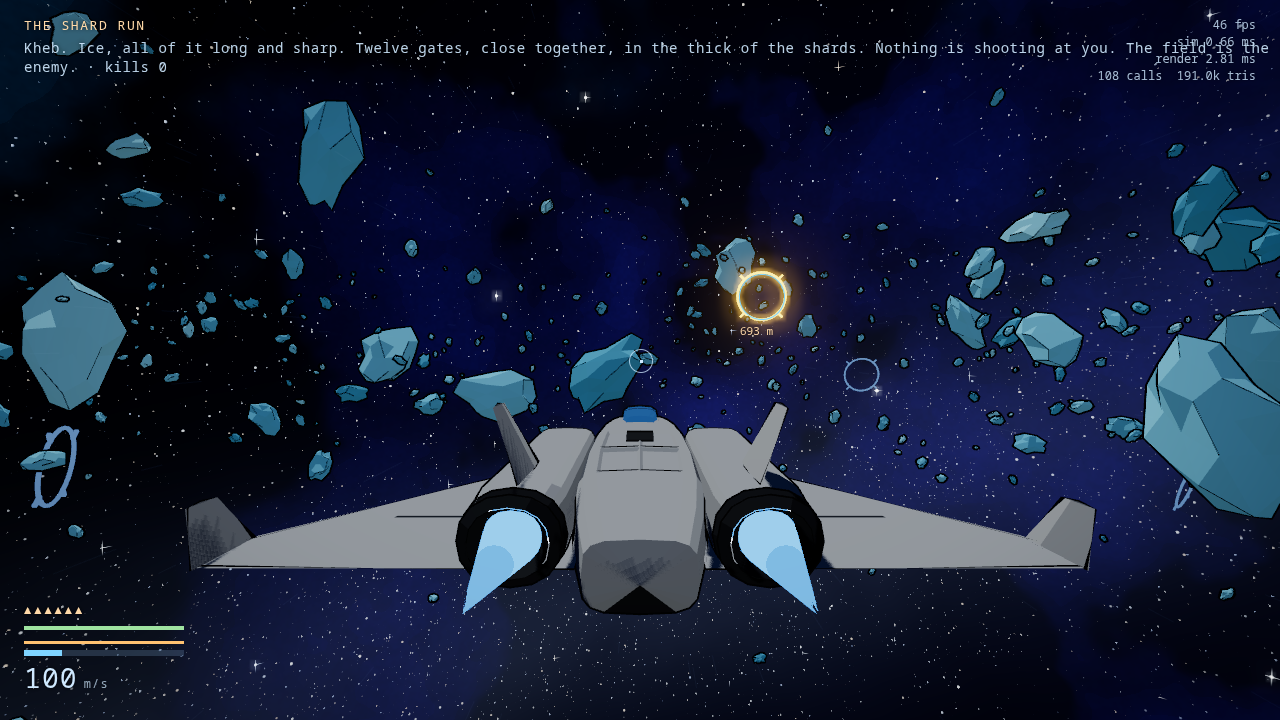
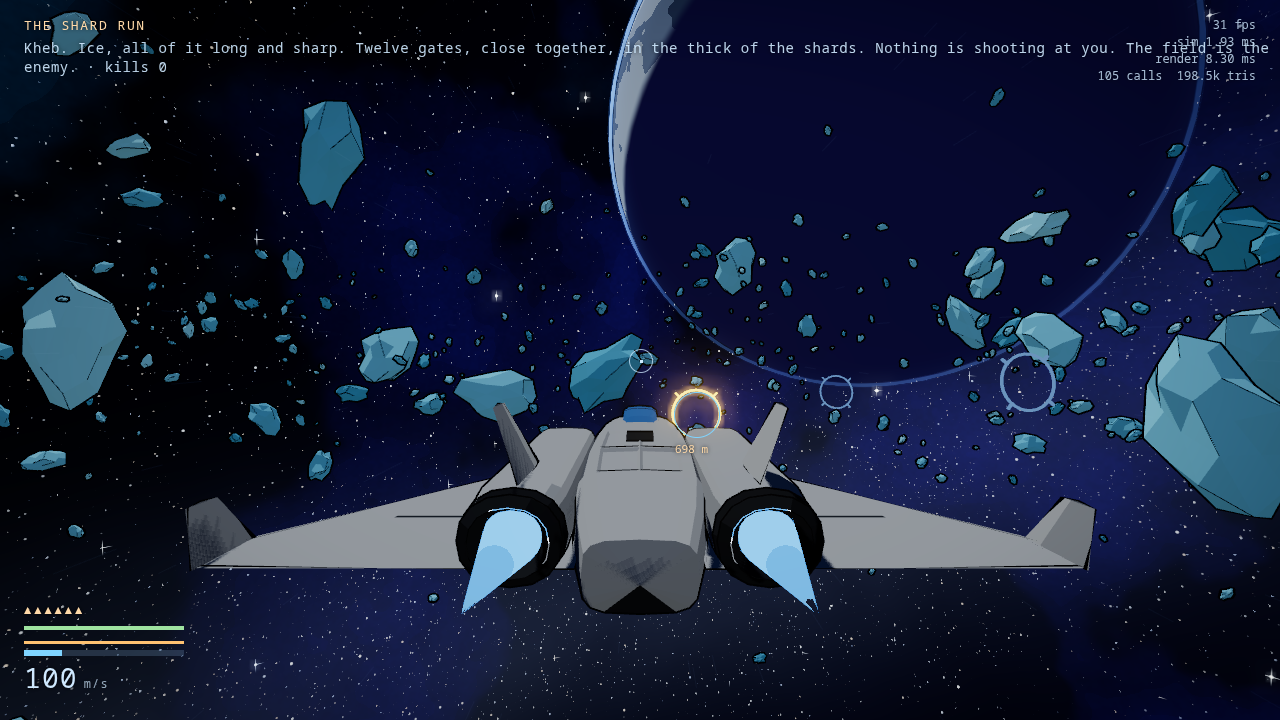
kheb: the moon sits ahead of the start so the opening frame has it

diff --git a/src/world/systems.ts b/src/world/systems.ts
@@ -81,7 +81,7 @@ export const SYSTEMS: SystemDef[] = [
     blurb: "A dead grey moon and a field of ice. The shards are long and the gaps are narrow.",
     sky: "frost",
     planet: "moon",
-    planetPos: [-1400, 1800, -4200],
+    planetPos: [-1600, 1500, 4300],
     sunDir: [0.3, 0.75, 0.55],
     belt: { count: 1100, seed: 9090, inner: 60, outer: 1350, thickness: 240, shapes: 6, style: "ice" },
   },
